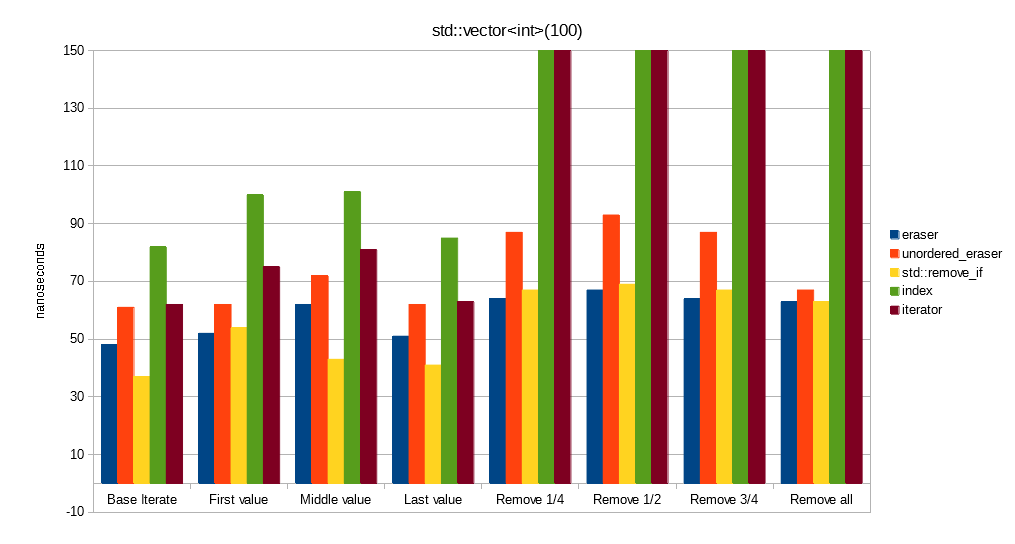
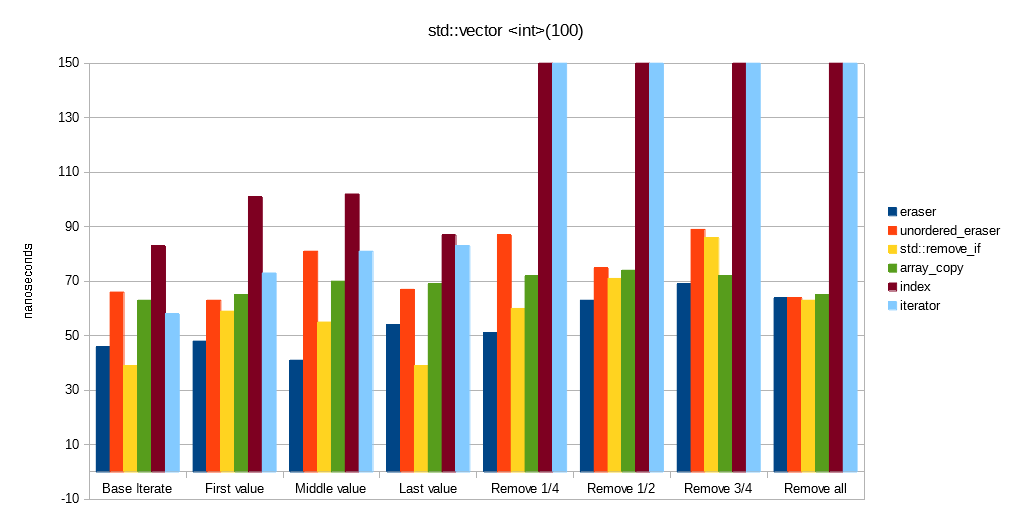
Update tests to include array copy

diff --git a/Tests/Iterator_Profile.cpp b/Tests/Iterator_Profile.cpp
@@ -134,6 +134,43 @@ void GenericRemoveIf(const T & a_data, const V a_value)
 }
 
 template <typename T, typename V>
+void RemoveArrayCopy(const T & a_data, const V a_value)
+{
+  T copyData;
+  copyData.reserve(a_data.size());
+
+  TIMER_START
+    for (auto& d : process)
+    {
+      // This code is about 2x slower than what is below
+      //copyData.resize(0);
+      //for (auto& v : d)
+      //{
+      //  if (v != a_value)
+      //  {
+      //    copyData.push_back(std::move(v));
+      //  }
+      //}
+      //d.swap(copyData);
+
+      copyData.resize(d.size());
+      int32_t size = 0;
+      for (auto& v : d)
+      {
+        if (v != a_value)
+        {
+          copyData[size] = std::move(v);
+          size++;
+        }
+      }
+      copyData.resize(size);
+      d.swap(copyData);
+    }
+  TIMER_END
+}
+
+
+template <typename T, typename V>
 void GenericRemoveFirst(const T & a_data, const V a_value)
 {
 
@@ -275,6 +312,7 @@ void RunTest(const T & a_data, const V & a_value, bool a_firstOnlyTests = false)
   cout << "  unordered_eraser : "; ProfileRemove(a_data, a_value, true);
   cout << "  std::remove : "; GenericRemove(a_data, a_value);
   cout << "  std::remove_if : "; GenericRemoveIf(a_data, a_value);
+  cout << "  array_copy : "; RemoveArrayCopy(a_data, a_value);
   cout << "  index : "; ProfileIndex(a_data, a_value);
   cout << "  iterator : "; ProfileIterator(a_data, a_value);
 
@@ -297,6 +335,7 @@ void WriteHeaders()
   s_csvFile << "unordered_eraser,";
   s_csvFile << "std::remove,";
   s_csvFile << "std::remove_if,";
+  s_csvFile << "array_copy,";
   s_csvFile << "index,"; 
   s_csvFile << "iterator,"; 
 

diff --git a/Articles/EraserProfile.md b/Articles/EraserProfile.md
@@ -52,6 +52,25 @@ A slightly more modern approach is to use ```std::remove_if()``` with a lambda
   
 But this is a bit ugly to type, and may be error prone in ensuring the correct container is always used.
 
+Another way is to copy out the array data you want to keep into a temporary working buffer
+```c++    
+      size_t size = 0;
+      copyData.resize(array.size()); // Existing temp buffer
+      for (auto& v : array)
+      {
+        if (v != delete)
+        {
+          copyData[size] = std::move(v);
+          size++;
+        }
+      }
+      copyData.resize(size);
+      array.swap(copyData);
+      copyData.resize(0);
+```
+
+But this can be quite error prone
+
 ## eraser() and unordered_eraser()
 
 Presented is a safe and performant way of removing elements while iterating on them.
@@ -84,7 +103,7 @@ If preserving order is not important:
 Below is presented performance graphs of the different ways of removing elements from an array as presented in the introduction. 
 Source code for the tests can be found in Iterator_Profile.cpp.
 
-All timings were done with VisualStudio 2017 RC (x64) on a Intel i7-4790 3.6GHz, 16GB ram @ 1866MHz, Windows 10.
+All timings were done with VisualStudio 2017 RC (x64) on a Intel i7-6700 3.4GHz, 16GB ram @ 2133MHz, Windows 10.
 
 The tests were done using std::vector data structure as linear data structures are most often used in performance code.
 
